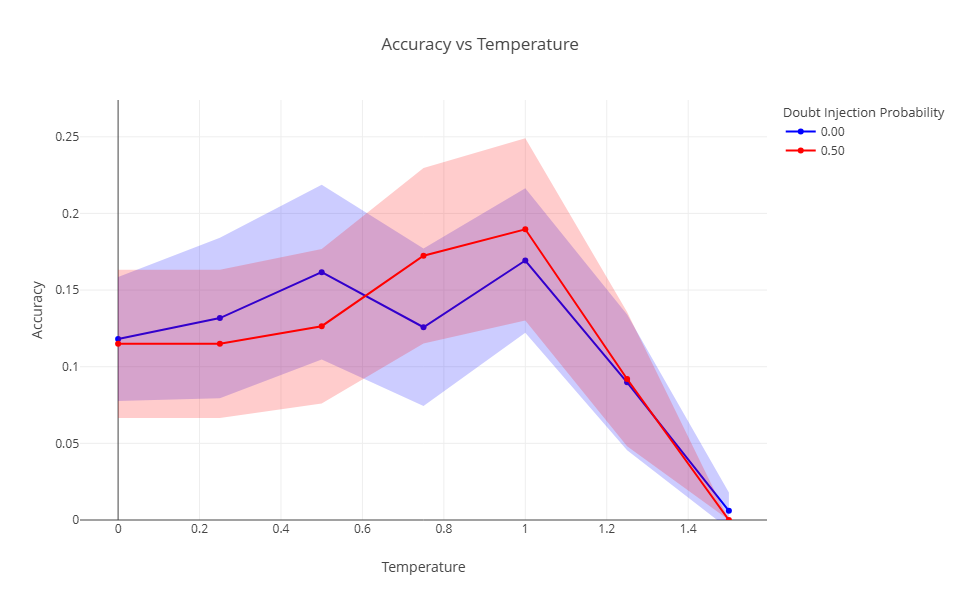
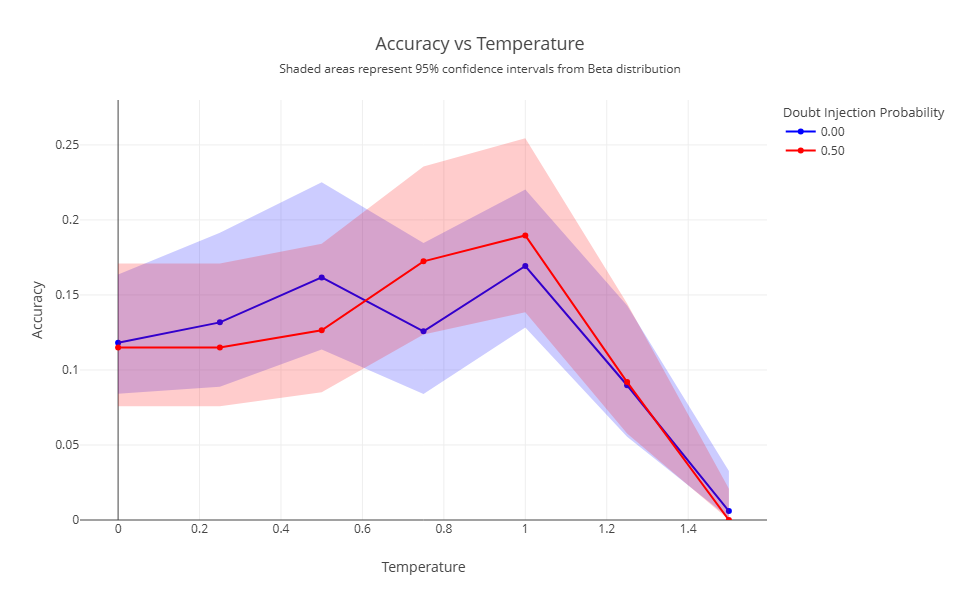
corrected error bars to a Beta distribution

diff --git a/graphing.html b/graphing.html
@@ -3,6 +3,7 @@
 <head>
     <title>LLM Results Analysis</title>
     <script src="https://cdn.plot.ly/plotly-latest.min.js"></script>
+    <script src="https://cdn.jsdelivr.net/npm/jstat@latest/dist/jstat.min.js"></script>
     <style>
         body {
             margin: 0;
@@ -243,16 +244,37 @@
                     mode: 'lines+markers',
                     name: parseFloat(prob).toFixed(2),
                     line: { color: lineColor },
-                    text: sorted.map(p => `Correct: ${p.correct}<br>Total: ${p.total}`),
+                    text: sorted.map(p => {
+                        const alpha = p.correct + 1;
+                        const beta = (p.total - p.correct) + 1;
+                        return `Correct: ${p.correct}<br>Total: ${p.total}<br>Beta(${alpha}, ${beta})`;
+                    }),
                     hovertemplate: 'Temperature: %{x}<br>Accuracy: %{y:.3f}<br>%{text}<extra></extra>'
                 });
 
                 if (showErrorBars) {
+                    // Calculate Beta distribution confidence intervals
+                    // For each point, we have a Beta(α, β) distribution where:
+                    // α = number of successes + 1 (adding 1 for Bayesian prior)
+                    // β = number of failures + 1 (adding 1 for Bayesian prior)
+                    
+                    // Calculate 95% confidence intervals using Beta distribution
+                    const lowerBounds = sorted.map(p => {
+                        const alpha = p.correct + 1; // Add 1 to match the Beta distribution
+                        const beta = (p.total - p.correct) + 1; // Add 1 to match the Beta distribution
+                        return jStat.beta.inv(0.025, alpha, beta); // 2.5% quantile
+                    });
+                    
+                    const upperBounds = sorted.map(p => {
+                        const alpha = p.correct + 1; // Add 1 to match the Beta distribution
+                        const beta = (p.total - p.correct) + 1; // Add 1 to match the Beta distribution
+                        return jStat.beta.inv(0.975, alpha, beta); // 97.5% quantile
+                    });
+                    
                     // Add filled confidence intervals
-                    const errors = sorted.map(p => 2 * Math.sqrt((p.acc * (1 - p.acc)) / p.total));
                     traces.push({
                         x: [...sorted.map(p => p.temp), ...sorted.map(p => p.temp).reverse()],
-                        y: [...sorted.map((p, i) => p.acc + errors[i]), ...sorted.map((p, i) => p.acc - errors[i]).reverse()],
+                        y: [...upperBounds, ...lowerBounds.reverse()],
                         fill: 'toself',
                         fillcolor: lineColor.replace('rgb', 'rgba').replace(')', ', 0.2)'),
                         line: { width: 0 },
@@ -264,13 +286,20 @@
                 }
             }
             
-            // Find the maximum accuracy value
-            const maxAccuracy = Math.max(...traces.flatMap(trace => trace.y));
+            // Find the maximum accuracy value including upper confidence bounds
+            const maxAccuracy = Math.max(...traces.flatMap(trace => 
+                Array.isArray(trace.y) ? trace.y : []
+            ));
             // Add 10% padding above the maximum value, but don't exceed 1
-            const yAxisMax = maxAccuracy * 1.1;
+            const yAxisMax = Math.min(1, maxAccuracy * 1.1);
             
             let layout = {
-                title: 'Accuracy vs Temperature',
+                title: {
+                    text: showErrorBars 
+                        ? 'Accuracy vs Temperature<br><span style="font-size:12px">Shaded areas represent 95% confidence intervals from Beta distribution</span>'
+                        : 'Accuracy vs Temperature',
+                    font: { size: 18 }
+                },
                 xaxis: {title: 'Temperature'},
                 yaxis: {
                     title: 'Accuracy',
